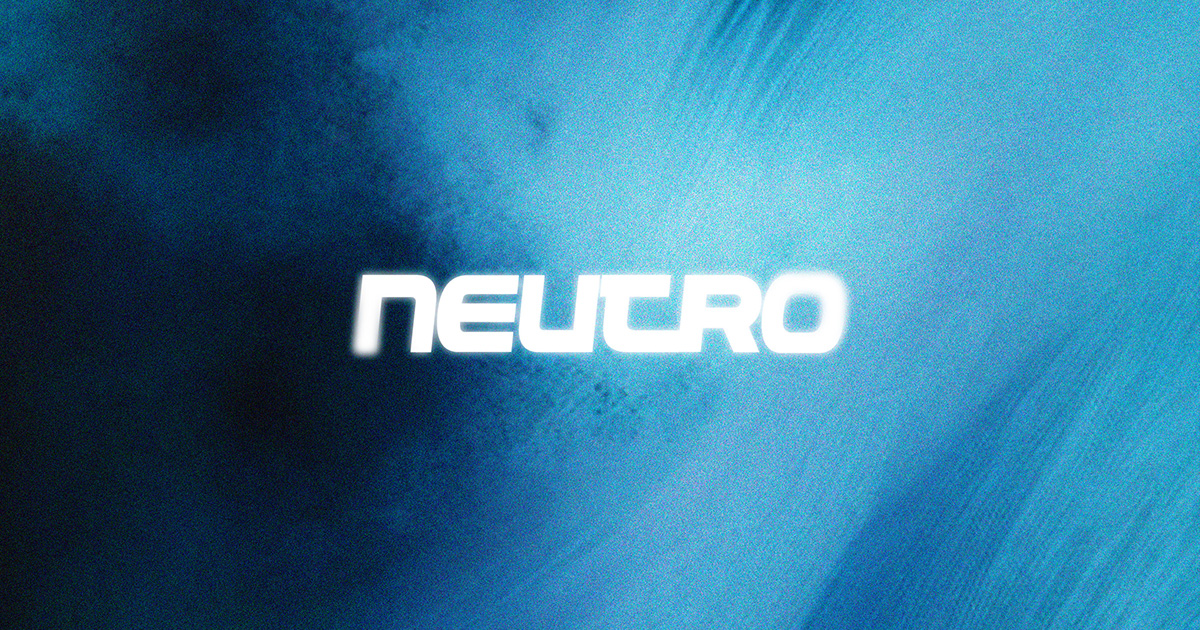
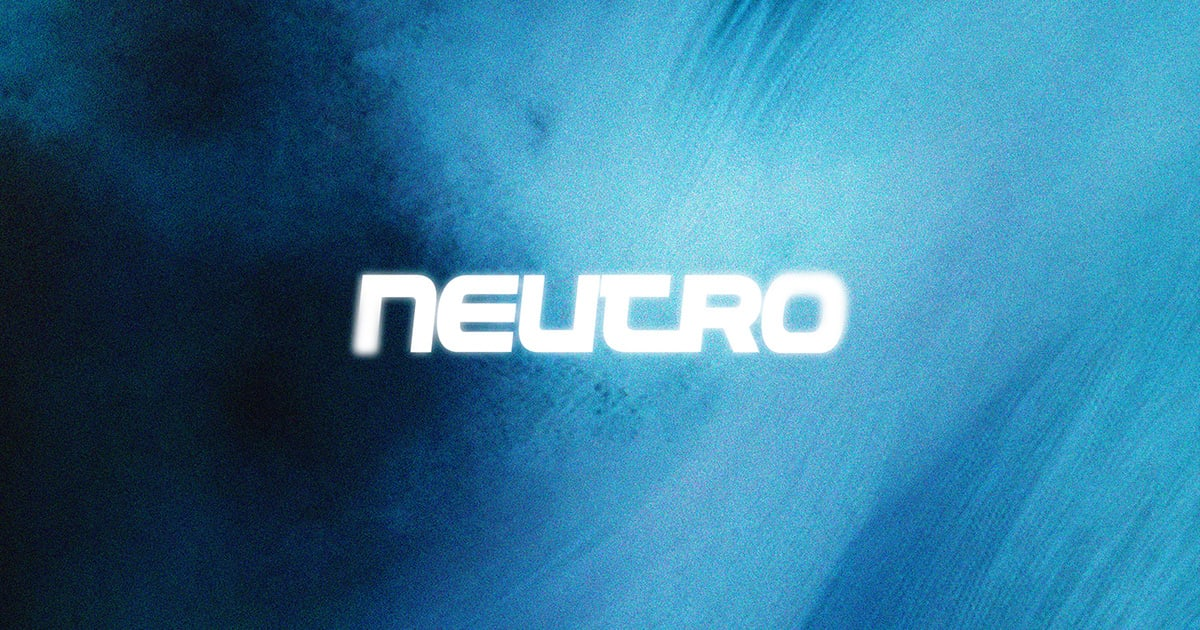
Lighter link preview image (723 KB to 191 KB, WhatsApp skips large ones) and its size in Open Graph

diff --git a/index.html b/index.html
@@ -55,6 +55,8 @@
 <meta property="og:description" content="Official website of Neutro, EDM producer: mainly Retro Future and Future House. Explore releases, exclusive tracks, and specialized tools for music producers.">
 <meta property="og:url" content="https://realneutromusic.com/">
 <meta property="og:image" content="https://realneutromusic.com/social-preview.jpg">
+<meta property="og:image:width" content="1200">
+<meta property="og:image:height" content="630">
 
 <link rel="canonical" href="https://realneutromusic.com/">
 
